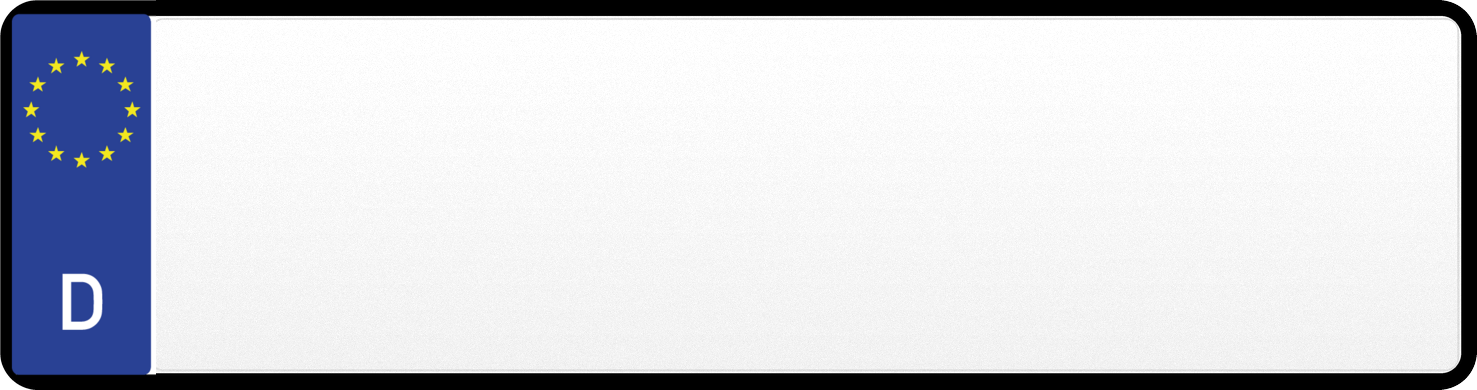
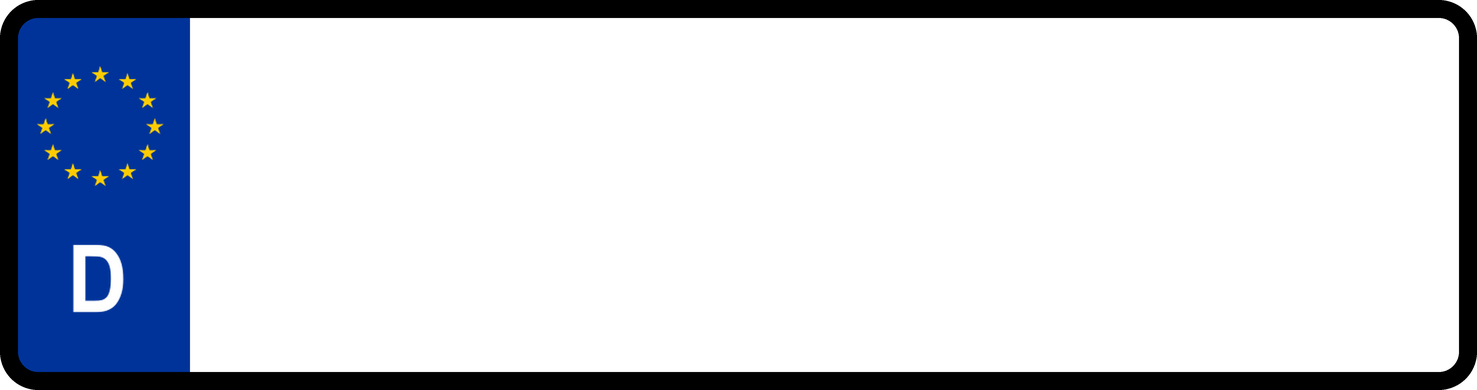
Germany: plates redrawn from the new template (flat face, thicker border, new euroband), all formats restyled to match; seasonal plates get the stacked month marks

Changed region(s): [[0.0, 0.0308, 1.0, 0.9846], [0.9966, 0.0615, 1.0, 0.0923]]

diff --git a/app/lib/plateLayout.ts b/app/lib/plateLayout.ts
@@ -81,7 +81,7 @@ export type ArtRow = {
  *  - "al-moto":    letters | digits                    ("AB 123" → AB | 123)
  *  - "al-trailer-two": letters | "R" + digits          ("AB R 456" → AB | R 456)
  */
-export type SplitRule = "hr-three" | "bg-moto" | "bg-two" | "bg-year" | "ba-two-eu" | "ba-two" | "be-seal" | "be-two" | "at47-two" | "at-prov" | "at-prov-two" | "at-two" | "at-seal" | "de-two" | "de-transit" | "de-wechsel" | "whole" | "seal" | "al-double" | "al-twoline" | "al-moto" | "al-trailer-two";
+export type SplitRule = "hr-three" | "bg-moto" | "bg-two" | "bg-year" | "ba-two-eu" | "ba-two" | "be-seal" | "be-two" | "at47-two" | "at-prov" | "at-prov-two" | "at-two" | "at-seal" | "de-two" | "de-season" | "de-transit" | "de-wechsel" | "whole" | "seal" | "al-double" | "al-twoline" | "al-moto" | "al-trailer-two";
 
 export type PlateArt = {
   src: string;          // path under /public
@@ -256,13 +256,13 @@ export const PLATE_ART: Record<string, PlateArt> = {
   "czech:two-euro": { src: "/plates/czech/two-euro.png", w: 560, h: 400, rows: [{ y0: 28, y1: 190, x0: 112, x1: 420, slots: 1, align: "left" }, { y0: 212, y1: 378, x0: 112, x1: 520, slots: 1, align: "left" }], split: "at-two", font: "cz", fill: 0.92, stickers: [{ src: "/plates/czech/sticker-red.png", x: 436, y: 22, w: 82, h: 82, bit: 1 }, { src: "/plates/czech/sticker-green.png", x: 436, y: 108, w: 82, h: 82, bit: 2 }] },
   "czech:two": { src: "/plates/czech/two.png", w: 560, h: 400, rows: [{ y0: 28, y1: 190, x0: 40, x1: 420, slots: 1, align: "left" }, { y0: 212, y1: 378, x0: 40, x1: 520, slots: 1, align: "left" }], split: "at-two", font: "cz", fill: 0.92, stickers: [{ src: "/plates/czech/sticker-red.png", x: 436, y: 22, w: 82, h: 82, bit: 1 }, { src: "/plates/czech/sticker-green.png", x: 436, y: 108, w: 82, h: 82, bit: 2 }] },
   // ── Germany: the full 520 mm plate (FE-Schrift); the stacked inspection sticker + seal sits between the district and the letters/digits ──
-  "germany:single": { src: "/plates/germany/single.png", w: 1920, h: 390, rows: [{ y0: 50, y1: 328, x0: 172, x1: 1885, slots: 2, seal: true, gap: 0.1 }], split: "at-seal", seal: "/plates/germany/seals/XX.png", sealAspect: 162 / 322, sealH: 1.16, fill: 0.98, space: 0.2, emboss: true, condense: 0.88, tracking: 0.015, huSeals: { stickerY: 112, sealY: 285, stickerD: 134, sealD: 158, frontY: 250 } },
+  "germany:single": { src: "/plates/germany/single.png", w: 1920, h: 390, rows: [{ y0: 69, y1: 326, x0: 215, x1: 1862, slots: 2, seal: true, gap: 0.26 }], split: "at-seal", seal: "/plates/germany/seals/XX.png", sealAspect: 162 / 322, sealH: 1.16, fill: 0.98, space: 0.2, emboss: true, condense: 0.88, tracking: 0.015, huSeals: { stickerY: 108, sealY: 278, stickerD: 126, sealD: 152, frontY: 245 } },
   // ── Germany, historical DIN plates (before 1994): no euroband, dash between district and letters, DIN lettering ──
   "germany:din": { src: "/plates/germany/din.png", w: 1920, h: 390, rows: [{ y0: 50, y1: 340, x0: 60, x1: 1860, slots: 2, seal: true, gap: 0.06 }], split: "at-seal", font: "dd", fill: 0.92, condense: 0.92, tracking: 0.02, emboss: true, seal: "/plates/germany/seals/XX.png", sealAspect: 1, sealH: 0.51, huSeals: { stickerY: 110, sealY: 294, stickerD: 124, sealD: 148, frontY: 294, dash: { y: 195, w: 112, h: 22 } } },
   "germany:din-two": { src: "/plates/germany/din-two.png", w: 960, h: 600, rows: [{ y0: 40, y1: 290, x0: 280, x1: 680, slots: 1 }, { y0: 310, y1: 565, x0: 50, x1: 910, slots: 1 }], split: "de-two", font: "dd", fill: 0.92, condense: 0.92, tracking: 0.02, emboss: true, fixed: [{ kind: "state", x: 140, y: 165, d: 130 }, { kind: "hu", x: 820, y: 165, d: 130 }] },
   "germany:din-us": { src: "/plates/germany/din-us.png", w: 1000, h: 500, rows: [{ y0: 40, y1: 235, x0: 300, x1: 700, slots: 1 }, { y0: 255, y1: 465, x0: 50, x1: 950, slots: 1 }], split: "de-two", font: "dd", fill: 0.92, condense: 0.92, tracking: 0.02, emboss: true, fixed: [{ kind: "hu", x: 140, y: 140, d: 110 }, { kind: "state", x: 860, y: 140, d: 110 }] },
   // ── Germany, transferable plates (Wechselkennzeichen): a small "W" instead of the sticker, the inspection sticker and the number on the small plate ──
-  "germany:transferable": { src: "/plates/germany/transferable.png", w: 1920, h: 390, rows: [{ y0: 50, y1: 328, x0: 172, x1: 1530, slots: 2, seal: true, gap: 0.1 }, { y0: 200, y1: 345, x0: 1605, x1: 1905, slots: 1, own: true }], split: "de-wechsel", fill: 0.98, condense: 0.88, tracking: 0.015, space: 0.2, emboss: true, seal: "/plates/germany/seals/XX.png", sealAspect: 162 / 322, sealH: 1.16, huSeals: { stickerY: 105, sealY: 285, stickerD: 60, sealD: 158, frontY: 285, topSrc: "/plates/germany/w.png" }, fixed: [{ kind: "hu", x: 1755, y: 112, d: 130 }] },
+  "germany:transferable": { src: "/plates/germany/transferable.png", w: 1920, h: 390, rows: [{ y0: 69, y1: 326, x0: 215, x1: 1500, slots: 2, seal: true, gap: 0.26 }, { y0: 200, y1: 345, x0: 1605, x1: 1905, slots: 1, own: true }], split: "de-wechsel", fill: 0.98, condense: 0.88, tracking: 0.015, space: 0.2, emboss: true, seal: "/plates/germany/seals/XX.png", sealAspect: 162 / 322, sealH: 1.16, huSeals: { stickerY: 105, sealY: 285, stickerD: 60, sealD: 158, frontY: 285, topSrc: "/plates/germany/w.png" }, fixed: [{ kind: "hu", x: 1755, y: 112, d: 130 }] },
   // two-row / US / motorcycle transferable plates (small plate at the right; a small "W" instead of the sticker on the main plate)
   "germany:transferable-two": { src: "/plates/germany/transferable-two.png", w: 920, h: 500, rows: [{ y0: 36, y1: 252, x0: 150, x1: 520, slots: 1 }, { y0: 300, y1: 478, x0: 40, x1: 660, slots: 1 }, { y0: 300, y1: 478, x0: 735, x1: 905, slots: 1, own: true }], split: "de-wechsel", fill: 0.86, condense: 0.9, tracking: 0.015, emboss: true, fixed: [{ kind: "w", x: 590, y: 96, d: 56 }, { kind: "state", x: 590, y: 240, d: 128 }, { kind: "hu", x: 820, y: 130, d: 120 }] },
   "germany:transferable-us": { src: "/plates/germany/transferable-us.png", w: 1220, h: 590, rows: [{ y0: 56, y1: 277, x0: 300, x1: 640, slots: 1 }, { y0: 313, y1: 540, x0: 80, x1: 930, slots: 1 }, { y0: 313, y1: 540, x0: 1040, x1: 1200, slots: 1, own: true }], split: "de-wechsel", fill: 0.98, condense: 0.9, tracking: 0.015, emboss: true, fixed: [{ kind: "w", x: 815, y: 100, d: 60 }, { kind: "state", x: 815, y: 224, d: 134 }, { kind: "hu", x: 1120, y: 150, d: 130 }] },
@@ -345,6 +345,11 @@ export const PLATE_ART: Record<string, PlateArt> = {
 };
 
 // Germany: export plates = the 5-day plates with a red strip (the number ends in one letter, with a gap before it)
+// Germany: seasonal plates — the regular plate with the season months (small, stacked over a line) at the right end
+{
+  const b = PLATE_ART["germany:single"];
+  PLATE_ART["germany:season"] = { ...b, src: "/plates/germany/season.png", rows: [{ ...b.rows[0], x1: 1735 }, { y0: 44, y1: 106, x0: 1765, x1: 1875, slots: 1, own: true, font: "dd" }, { y0: 244, y1: 306, x0: 1765, x1: 1875, slots: 1, own: true, font: "dd" }], split: "de-season" };
+}
 for (const k of ["", "-two", "-us"]) PLATE_ART[`germany:export${k}`] = { ...PLATE_ART[`germany:transit${k}`], src: `/plates/germany/export${k}.png`, space: 0.3 };
 // Germany: shortened plates (480 … 340 mm) — the 520 mm plate with a slice cut from the middle of the face (scripts/build-germany-art.py)
 for (const mm of [480, 460, 440, 420, 400, 380, 360, 340]) {
@@ -451,6 +456,7 @@ export function plateArtFor(country: string, plateType?: string | null): PlateAr
     if (trf) return PLATE_ART[trf[1] === "double" ? "germany:transferable-two" : trf[1] === "us" ? "germany:transferable-us" : "germany:transferable-moto"] ?? null;
     const reg = (plateType ?? "").match(/^de-(regular|electric|oldtimer|seasonal|seasonal-h|transferable)-(double|us|moto|moto-old)(-hu(\d\d|0))?$/);      // two-row, US-size and motorcycle plates
     if (reg) return PLATE_ART[reg[2] === "double" ? "germany:two" : reg[2] === "us" ? "germany:us" : reg[2] === "moto" ? "germany:moto" : "germany:moto-old"] ?? null;
+    if (/^de-seasonal(-h)?-single(-hu(\d\d|0))?$/.test(plateType ?? "")) return PLATE_ART["germany:season"] ?? null;
     return !plateType || /^de-(regular|electric|oldtimer|seasonal|seasonal-h|transferable)(-single)?(-short)?(-hu(\d\d|0))?$/.test(plateType) ? PLATE_ART["germany:single"] ?? null : null;
   }
   if (key === "austria") {
@@ -648,6 +654,10 @@ function splitText(rule: SplitRule, text: string): string[] | null {
   if (rule === "de-wechsel") {                                                         // HER H 22-2 → HER | H 22 | 2 (district, letters + digits, number on the small plate)
     const m = text.trim().match(/^(\S+)\s+(.+?)(?:-(\w+))?$/);
     return m ? [m[1], m[2], m[3] ?? ""] : null;
+  }
+  if (rule === "de-season") {                                                          // B AB 1234 04/10 → B | AB 1234 | 10 | 04 (district, rest, last month over first month)
+    const m = text.trim().match(/^(\S+)\s+(.+?)(?:\s+(\d\d)\/(\d\d))?$/);
+    return m ? [m[1], m[2], m[4] ?? "", m[3] ?? ""] : null;
   }
   if (rule === "de-transit") {                                                         // A 123456 20.04.15 → A | 123456 | 20 | 04 | 15 (district, number, day, month, year of the expiry date)
     const m = text.trim().match(/^(\S+)\s+(\d+(?:\s?[A-Z])?)(?:\s+(\d\d)\.(\d\d)\.(\d\d))?$/);             // export plates: the number ends in one letter (458 C)

diff --git a/app/components/PlateBadge.tsx b/app/components/PlateBadge.tsx
@@ -12,7 +12,7 @@ export { formatPlateText } from "@/app/lib/plateLayout";
 export type { PlateSize };
 
 /** Bump when the plate rendering changes, so CDN-cached images refresh. */
-const PLATE_IMAGE_VERSION = 166;
+const PLATE_IMAGE_VERSION = 168;
 /** Render at 3× for crisp output on high-density screens. */
 const DENSITY = 3;
 

diff --git a/scripts/build-germany-art.py b/scripts/build-germany-art.py
@@ -13,42 +13,51 @@ W, H = src.size
 OUT = os.path.join(ROOT, "public/plates/germany")
 os.makedirs(OUT, exist_ok=True)
 
-# blank face: the border and the face are drawn fresh (clean rounded corners, a faint gradient and an inner rim), the euroband comes from the photo
-SS = 4
-big = Image.new("RGBA", (W * SS, H * SS), (0, 0, 0, 0))
-bd = ImageDraw.Draw(big)
-bd.rounded_rectangle([0, 0, W * SS - 1, H * SS - 1], radius=38 * SS, fill=(0, 0, 0, 255))
-FX0, FY0, FX1, FY1 = 150, 16, 1904, 373
-face_mask = Image.new("L", big.size, 0)
-ImageDraw.Draw(face_mask).rounded_rectangle([FX0 * SS - 40 * SS, FY0 * SS, FX1 * SS, FY1 * SS], radius=20 * SS, fill=255)
-grad = Image.new("RGBA", big.size, (255, 255, 255, 255))
-gd = ImageDraw.Draw(grad)
-for y in range(FY0 * SS, FY1 * SS + 1):
-    t = (y - FY0 * SS) / ((FY1 - FY0) * SS)
-    v = round(255 - 14 * t)                                   # white at the top, a touch greyer at the bottom
-    gd.line([(0, y), (big.size[0], y)], fill=(v, v, v, 255))
-big.paste(grad, (0, 0), face_mask)
-# faint inner rim just inside the border
-ImageDraw.Draw(big).rounded_rectangle([FX0 * SS, FY0 * SS + 2 * SS, FX1 * SS - 2 * SS, FY1 * SS - 2 * SS], radius=13 * SS, outline=(222, 222, 222, 255), width=2 * SS)
-face = big.resize((W, H), Image.LANCZOS)
-# a fine grain in the face (stamped sheet metal, not a flat fill)
-import random
-random.seed(7)
+# ── flat vector plates drawn after assets/germany-template.png (the 520 mm plate: black border, flat white face, blue euroband) ──
 from PIL import ImageChops
-noise = Image.effect_noise((W, H), 14).point(lambda p: max(0, min(255, p // 5)))       # 0..51, mean ~25
-grain = Image.merge("RGB", (noise, noise, noise))
-fmask = face_mask.resize((W, H), Image.LANCZOS)
-fr = ImageChops.add(face.convert("RGB"), grain, 1, -25)
-face.paste(fr, (0, 0), fmask)
-face.paste(src.crop((0, 0, 156, H)), (0, 0))                  # border corners and euroband (stars, D) from the photo
-def clip_corners(im, r):
-    k = 4
-    m = Image.new("L", (im.size[0] * k, im.size[1] * k), 0)
-    ImageDraw.Draw(m).rounded_rectangle([0, 0, im.size[0] * k - 1, im.size[1] * k - 1], radius=r * k, fill=255)
-    m = m.resize(im.size, Image.LANCZOS)
-    out = im.copy(); out.putalpha(ImageChops.multiply(im.getchannel("A"), m)); return out
-face = clip_corners(face, 38)
-face.save(os.path.join(OUT, "single.png"))
+TPL = Image.open(os.path.join(ROOT, "assets/germany-template.png")).convert("RGBA")
+BLUE = (0, 51, 153)
+BORDER = 18
+def _band_overlay():
+    """The stars and the D of the template's euroband as an overlay (alpha = how far a pixel is from the blue)."""
+    c = TPL.crop((40, 37, 209, 402)); px = c.load()
+    ov = Image.new("RGBA", c.size, (0, 0, 0, 0)); op = ov.load()
+    for y in range(c.size[1]):
+        for x in range(c.size[0]):
+            r, g, b, a = px[x, y]
+            al = r / 255
+            if al < 0.02 or a < 255: continue
+            col = [max(0, min(255, round((v - (1 - al) * bv) / al))) for v, bv in zip((r, g, b), BLUE)]
+            op[x, y] = (col[0], col[1], col[2], round(al * 255))
+    return ov
+BAND_OV = _band_overlay()
+def flat_plate(w, h, radius, name, band=None, stretch=False):
+    SS = 4
+    big = Image.new("RGBA", (w * SS, h * SS), (0, 0, 0, 0))
+    ImageDraw.Draw(big).rounded_rectangle([0, 0, w * SS - 1, h * SS - 1], radius=radius * SS, fill=(0, 0, 0, 255))
+    fm = Image.new("L", big.size, 0)
+    ImageDraw.Draw(fm).rounded_rectangle([BORDER * SS, BORDER * SS, (w - BORDER) * SS - 1, (h - BORDER) * SS - 1], radius=max(4, radius - BORDER) * SS, fill=255)
+    big.paste(Image.new("RGBA", big.size, (255, 255, 255, 255)), (0, 0), fm)
+    if band:
+        x0, y0, x1, y1 = band
+        bm = Image.new("L", big.size, 0)
+        ImageDraw.Draw(bm).rectangle([x0 * SS, y0 * SS, x1 * SS - 1, y1 * SS - 1], fill=255)
+        big.paste(Image.new("RGBA", big.size, BLUE + (255,)), (0, 0), ImageChops.multiply(fm, bm))
+        bw, bh = (x1 - x0) * SS, (y1 - y0) * SS
+        if stretch: ow, oh = bw, bh
+        else:
+            k = min(bw / BAND_OV.size[0], bh / BAND_OV.size[1]); ow, oh = round(BAND_OV.size[0] * k), round(BAND_OV.size[1] * k)
+        ov = BAND_OV.resize((ow, oh), Image.LANCZOS)
+        big.alpha_composite(ov, (x0 * SS + (bw - ow) // 2, y0 * SS + (bh - oh) // 2))
+    im = big.resize((w, h), Image.LANCZOS)
+    im.save(os.path.join(OUT, name))
+    return im
+face = flat_plate(W, H, 38, "single.png", band=(BORDER, BORDER, 190, H - BORDER), stretch=True)
+
+# seasonal plates: the plate with a short line between the two month numbers at the right end
+season = face.copy()
+ImageDraw.Draw(season).rectangle([1765, 169, 1875, 176], fill=(17, 17, 17, 255))
+season.save(os.path.join(OUT, "season.png"))
 
 # shortened plates: the same plate with a slice cut out of the middle of the white face (lengths in mm as the shops offer them)
 PX_PER_MM = W / 520
@@ -84,26 +93,8 @@ print("ok", S.size)
 
 
 # ── Historical DIN plates (before 1994): white face, black border, no euroband ──
-def din_plate(w, h, border, radius, name):
-    SS = 4
-    big = Image.new("RGBA", (w * SS, h * SS), (0, 0, 0, 0))
-    bd = ImageDraw.Draw(big)
-    bd.rounded_rectangle([0, 0, w * SS - 1, h * SS - 1], radius=radius * SS, fill=(0, 0, 0, 255))
-    fm = Image.new("L", big.size, 0)
-    ImageDraw.Draw(fm).rounded_rectangle([border * SS, border * SS, (w - border) * SS, (h - border) * SS], radius=max(4, radius - border) * SS, fill=255)
-    grad = Image.new("RGBA", big.size, (255, 255, 255, 255))
-    gd = ImageDraw.Draw(grad)
-    for y in range(border * SS, (h - border) * SS + 1):
-        t = (y - border * SS) / ((h - 2 * border) * SS)
-        v = round(255 - 14 * t)
-        gd.line([(0, y), (big.size[0], y)], fill=(v, v, v, 255))
-    big.paste(grad, (0, 0), fm)
-    ImageDraw.Draw(big).rounded_rectangle([border * SS, border * SS + 2 * SS, (w - border) * SS - 2 * SS, (h - border) * SS - 2 * SS], radius=max(4, radius - border - 2) * SS, outline=(222, 222, 222, 255), width=2 * SS)
-    im = big.resize((w, h), Image.LANCZOS)
-    n = Image.effect_noise((w, h), 14).point(lambda p: max(0, min(255, p // 5)))
-    fr = ImageChops.add(im.convert("RGB"), Image.merge("RGB", (n, n, n)), 1, -25)
-    im.paste(fr, (0, 0), fm.resize((w, h), Image.LANCZOS))
-    im.save(os.path.join(OUT, name))
+def din_plate(w, h, border, radius, name, band=None):
+    return flat_plate(w, h, radius, name, band)
 din_plate(1920, 390, 14, 36, "din.png")
 din_plate(960, 600, 14, 52, "din-two.png")
 din_plate(1000, 500, 14, 44, "din-us.png")
@@ -117,11 +108,12 @@ print("din ok")
 # ── 5-day (short-term) plates: white face, no euroband, yellow strip with the expiry date at the right ──
 YEL = (250, 184, 0, 255)
 def transit_plate(w, h, border, radius, name, box):
+    border = BORDER
     base = Image.open(os.path.join(OUT, name.replace("transit", "din"))).convert("RGBA")
     ov = Image.new("RGBA", base.size, (0, 0, 0, 0))
     ImageDraw.Draw(ov).rectangle(box, fill=YEL)
     face_only = Image.new("L", base.size, 0)
-    ImageDraw.Draw(face_only).rounded_rectangle([border + 2, border + 2, w - border - 3, h - border - 3], radius=max(4, radius - border - 2), fill=255)
+    ImageDraw.Draw(face_only).rounded_rectangle([border, border, w - border - 1, h - border - 1], radius=max(4, radius - border), fill=255)
     base.paste(ov, (0, 0), ImageChops.multiply(ov.getchannel("A"), face_only))
     base.save(os.path.join(OUT, name))
 transit_plate(1920, 390, 14, 36, "transit.png", [1700, 0, 1920, 390])
@@ -131,18 +123,12 @@ print("transit ok")
 
 
 # ── Regular two-row / US-size / motorcycle plates (euroband top-left only, stickers at fixed spots) ──
-BAND = src.crop((14, 16, 152, 374))                                 # the euroband from the photo (stars + D)
-def regular_plate(w, h, radius, name, band_box, band=True):
-    din_plate(w, h, 14, radius, name)
-    im = Image.open(os.path.join(OUT, name)).convert("RGBA")
-    if band:
-        x0, y0, x1, y1 = band_box
-        im.alpha_composite(BAND.resize((x1 - x0, y1 - y0), Image.LANCZOS), (x0, y0))
-    im.save(os.path.join(OUT, name))
-regular_plate(1000, 590, 44, "us.png", (14, 14, 154, 291))
-regular_plate(700, 500, 44, "two.png", (14, 14, 114, 244))
-regular_plate(900, 1000, 56, "moto.png", (14, 14, 204, 454))
-regular_plate(1100, 1000, 56, "moto-old.png", (14, 14, 201, 448))
+def regular_plate(w, h, radius, name, band_box):
+    flat_plate(w, h, radius, name, band_box)
+regular_plate(1000, 590, 44, "us.png", (18, 18, 160, 294))
+regular_plate(700, 500, 44, "two.png", (18, 18, 120, 246))
+regular_plate(900, 1000, 56, "moto.png", (18, 18, 208, 458))
+regular_plate(1100, 1000, 56, "moto-old.png", (18, 18, 205, 452))
 print("regular ok")
 
 
@@ -155,7 +141,7 @@ def strip_variant(out_name, base_name, box, col):
     ImageDraw.Draw(ov).rectangle(box, fill=col)
     face_only = Image.new("L", base.size, 0)
     r = {1920: 36, 960: 52, 1000: 44}[w]
-    ImageDraw.Draw(face_only).rounded_rectangle([16, 16, w - 17, h - 17], radius=r - 16, fill=255)
+    ImageDraw.Draw(face_only).rounded_rectangle([BORDER, BORDER, w - BORDER - 1, h - BORDER - 1], radius=r - BORDER, fill=255)
     base.paste(ov, (0, 0), ImageChops.multiply(ov.getchannel("A"), face_only))
     base.save(os.path.join(OUT, out_name))
 strip_variant("export.png", "din.png", [1700, 0, 1920, 390], RED)
@@ -166,15 +152,14 @@ print("export ok")
 
 # ── Transferable (Wechselkennzeichen) plates: the plate plus a small plate at the right (inspection sticker + number) ──
 from PIL import ImageFont
-din_plate(1560, 390, 14, 36, "_tmp_main.png")
 din_plate(330, 390, 14, 36, "_tmp_small.png")
-main = Image.open(os.path.join(OUT, "_tmp_main.png")).convert("RGBA")
-main.alpha_composite(src.crop((14, 16, 152, 374)), (14, 16))
+main = Image.new("RGBA", (1560, H), (0, 0, 0, 0))
+main.paste(face.crop((0, 0, 1000, H)), (0, 0)); main.paste(face.crop((1360, 0, W, H)), (1000, 0))
 small = Image.open(os.path.join(OUT, "_tmp_small.png")).convert("RGBA")
 tw = Image.new("RGBA", (1920, 390), (0, 0, 0, 0))
 tw.alpha_composite(main, (0, 0)); tw.alpha_composite(small, (1590, 0))
 tw.save(os.path.join(OUT, "transferable.png"))
-os.remove(os.path.join(OUT, "_tmp_main.png")); os.remove(os.path.join(OUT, "_tmp_small.png"))
+os.remove(os.path.join(OUT, "_tmp_small.png"))
 # the small "W" that stands where the inspection sticker would be
 wimg = Image.new("RGBA", (160, 160), (0, 0, 0, 0))
 f = ImageFont.truetype(os.path.join(ROOT, "assets/fonts/D-DIN.ttf"), 150)
